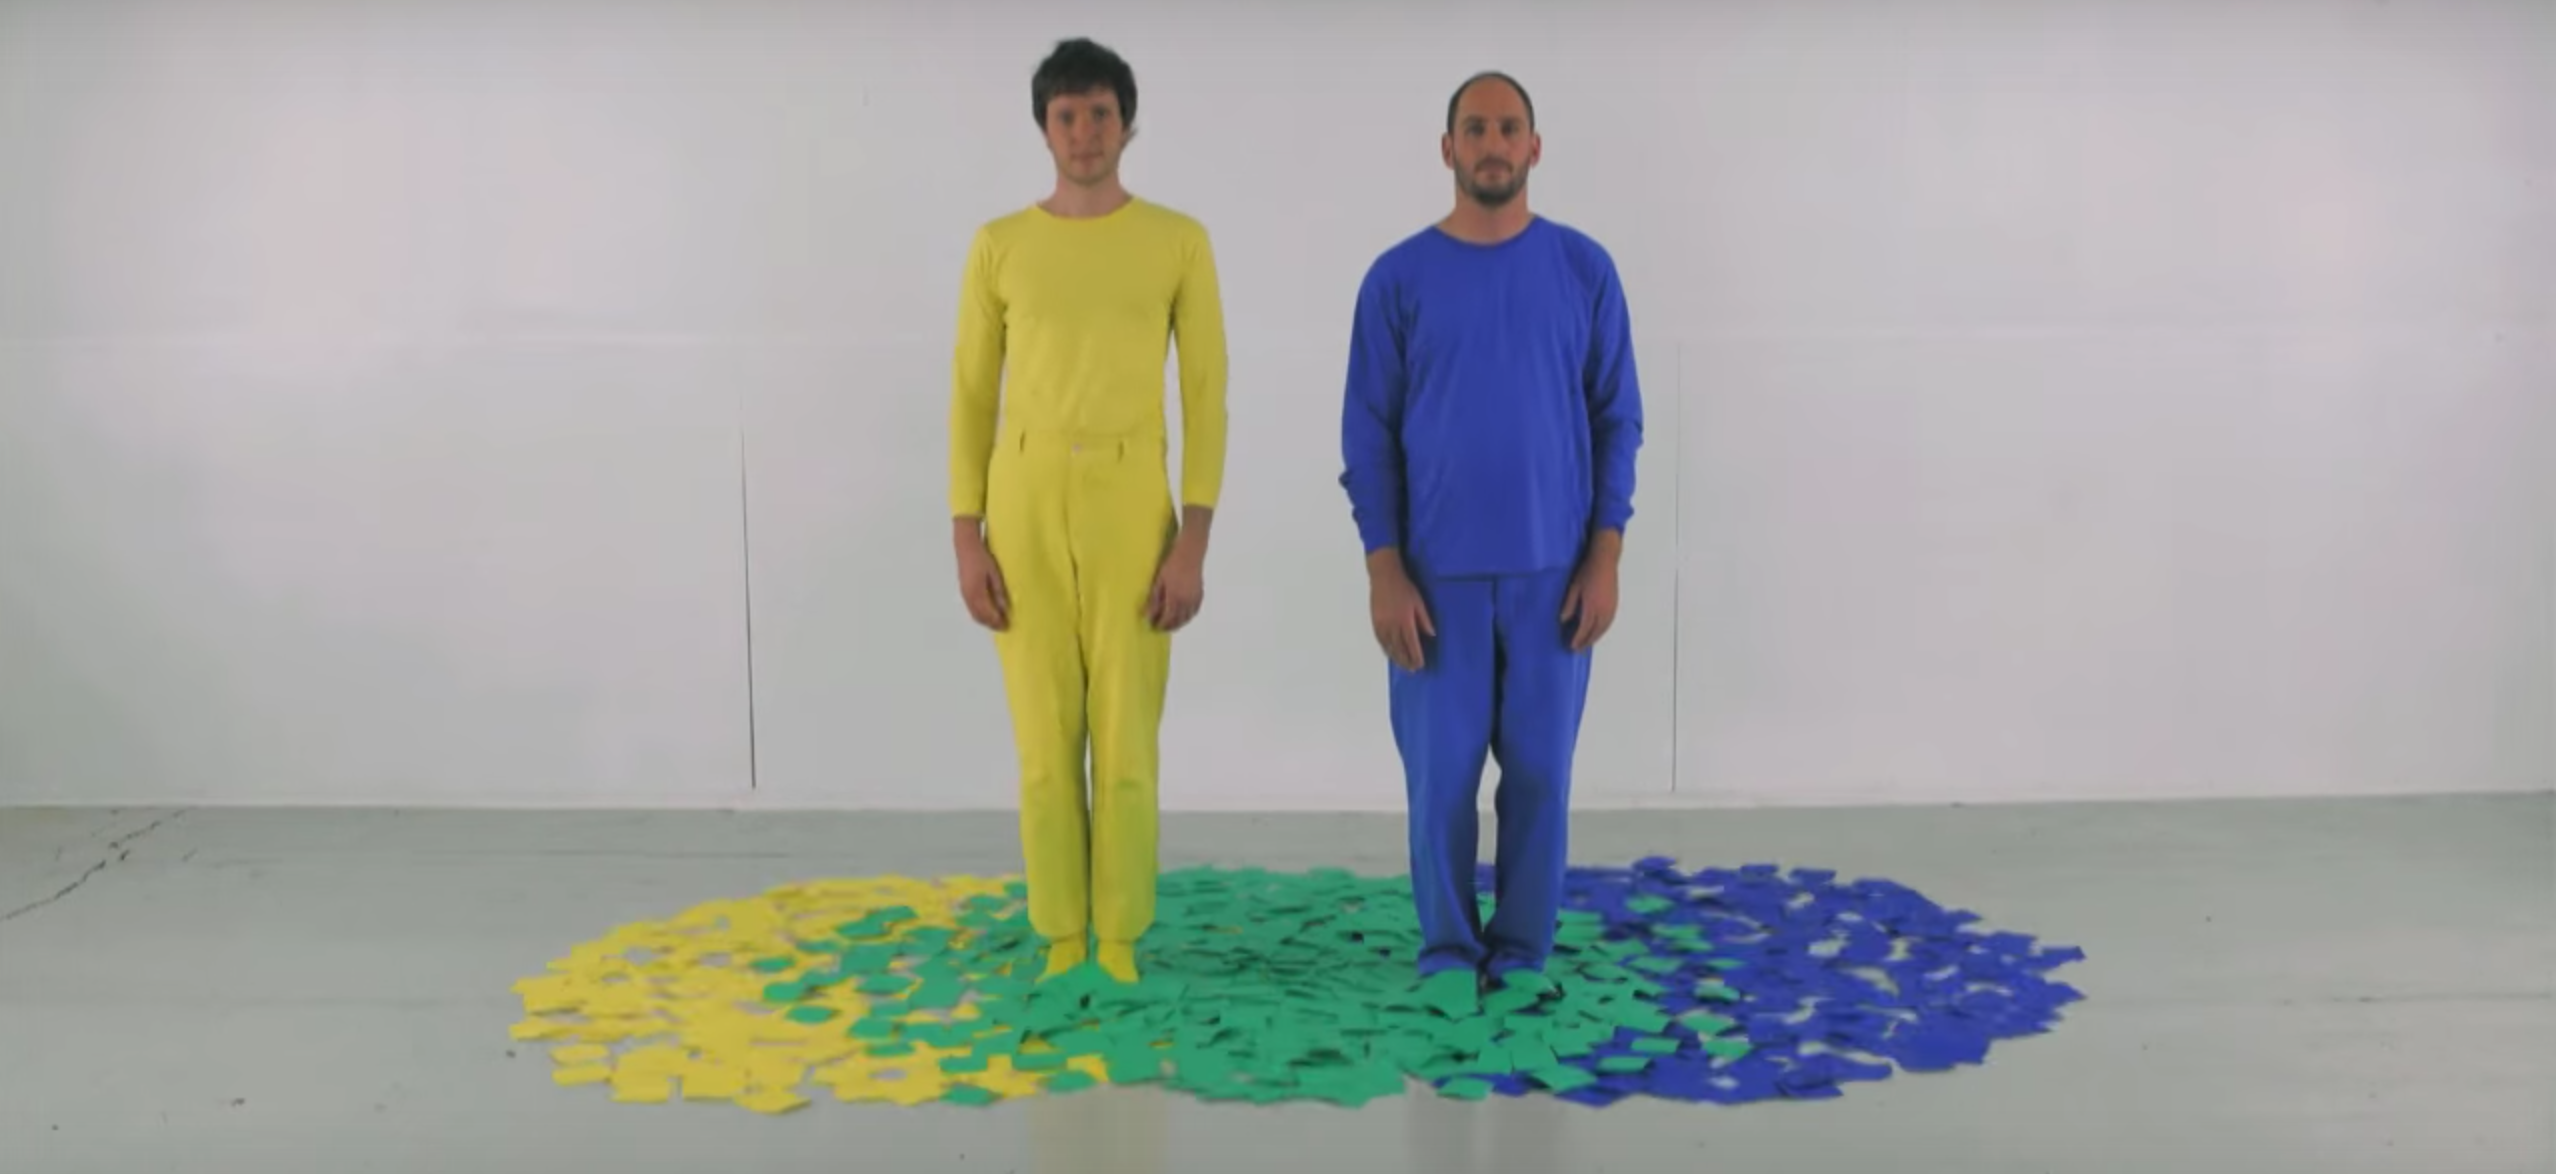
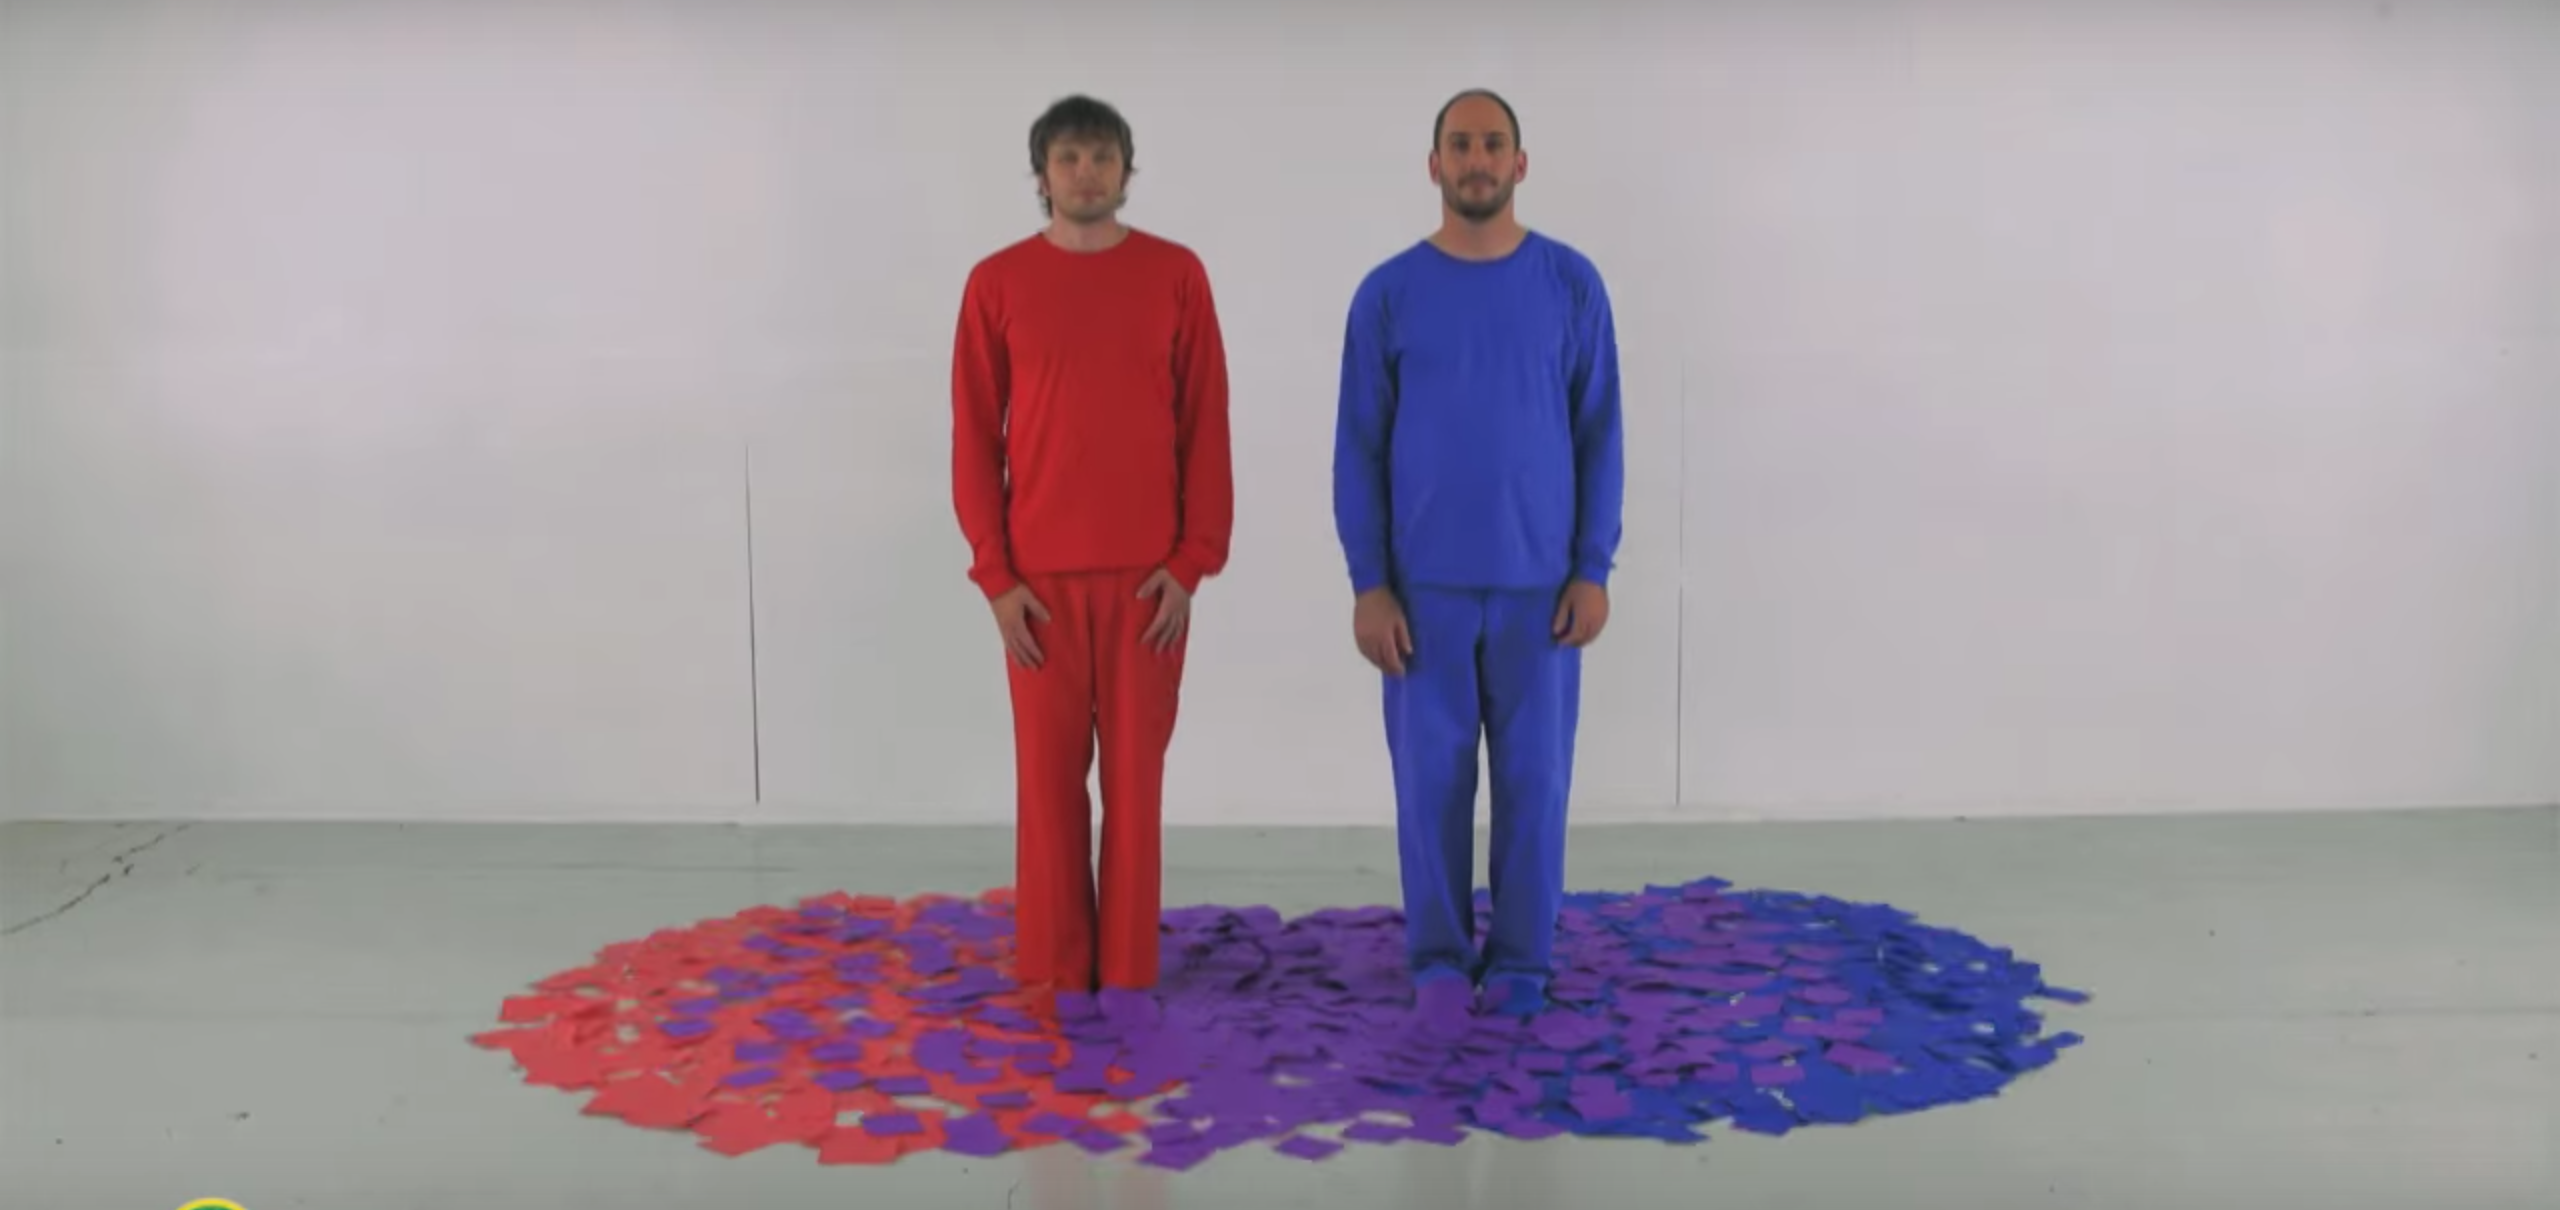
better explanation of sequential and qualatative

Changed region(s): [[0.0, 0.0307, 1.0, 0.9813], [0.0618, 0.9813, 0.0927, 1.0]]

diff --git a/_posts/2016-04-22-Colors-for-DataVis.md b/_posts/2016-04-22-Colors-for-DataVis.md
@@ -4,7 +4,7 @@ title: Your Friendly Guide to Colors in Data Visualisation
 tag: thoughts,
 ---
 
-A few days ago, I approached my Twitter followers with [a request to help me](https://twitter.com/lisacrost/status/722948084703956992) in an urgent matter: "Can somebody tell me how to get better with color?," I wrote. " My color decisions are awful." Thanks to a retweet by Scott Murray I got a lot of replies. They were awesome. And I want to share them with you, annotated with my own thoughts about them. Here you go:
+A few days ago, I approached my Twitter followers with [a request to help me](https://twitter.com/lisacrost/status/722948084703956992) in an urgent matter: "Can somebody tell me how to get better with color?," I wrote. " My color decisions are awful." Thanks to a retweet by Scott Murray I got a lot of replies with links to websites and tools. They were awesome. And I want to share them with you, annotated with my own thoughts about them. Here you go:
 <br><br>
 
 
@@ -18,7 +18,7 @@ Both aspects are important for data visualisations. For example, the **mood** is
 
 ![image](/pic/160423-mood.png)
 
-So how should you choose colors for your project? I think in data vis, there are two challenges regarding color: **Sequential/diverging data and qualitative data.** To explain them: Sequential/diverging data requires gradients. Qualitative data requires colors which scream: "I'm by myself and have nothing do to with all these other colors here!"
+So how should you choose colors for your project? I think in data vis, there are two challenges regarding color: **Sequential/diverging data and qualitative data.** To explain them: Sequential/diverging data is data that progresses from low to high and therefore requires gradients. Qualitative data are categories and require colors which scream: "I'm by myself and have nothing do to with all these other colors here!"
 
 The challenges for these two use cases are different ones. If you work with **gradients**, your main concern is that the differences between your steps are high enough. Meaning, you want your reader to clearly differentiate between a light green and a ...lighter green. In the next section of this post, I will introduce tools which try to solve this problem.
 
@@ -54,7 +54,7 @@ If you feel like you mastered all these tools and need more, **[I want hue](http
 
 **2a. Color Compositions - Learn from the Masters**
 
-After covering the gradients, let's move on to Color Palettes. When I asked my question on Twitter, three people recommended me painters, so I feel like there is some demand to cover them. To be honest: I appreciate the old masters, and as a Bauhaus University alumna I see the special something you can get from Albers, Itten and Co. (As an ex Weimar resident I can also see the delight one can get from [Goethe's Theory of Color](https://en.wikipedia.org/wiki/Theory_of_Colours).) But...you know...they didn't have RGB back then. Their available colors were different. Who know what they would have thought of with neon green. That said, I'm sure we can still learn a lot from their writings about color composition.
+After covering the gradients, let's move on to Color Palettes. When I asked my question on Twitter, three people recommended me painters, so I feel like there is some demand to cover them. To be honest: I appreciate the old masters, and as a Bauhaus University alumna I see the special something you can get from Albers, Itten and Co. (As an ex Weimar resident I can also see the delight one can get from [Goethe's Theory of Color](https://en.wikipedia.org/wiki/Theory_of_Colours).) But...you know...their available colors were different. Who knows what they would have thought of with bright neon green. That said, I'm sure we can still learn a lot from their writings about color composition.
 
 Let's start with **Josef Albers** and his "Interaction of Color" book. He had important stuff to say, [eg](https://www.brainpickings.org/2013/08/16/interaction-of-color-josef-albers-50th-anniversary/): "In visual perception a color is almost never seen as it really is — as it physically is." And his color compositions are beautiful indeed:
 ![image](/pic/160423-albers.png)
